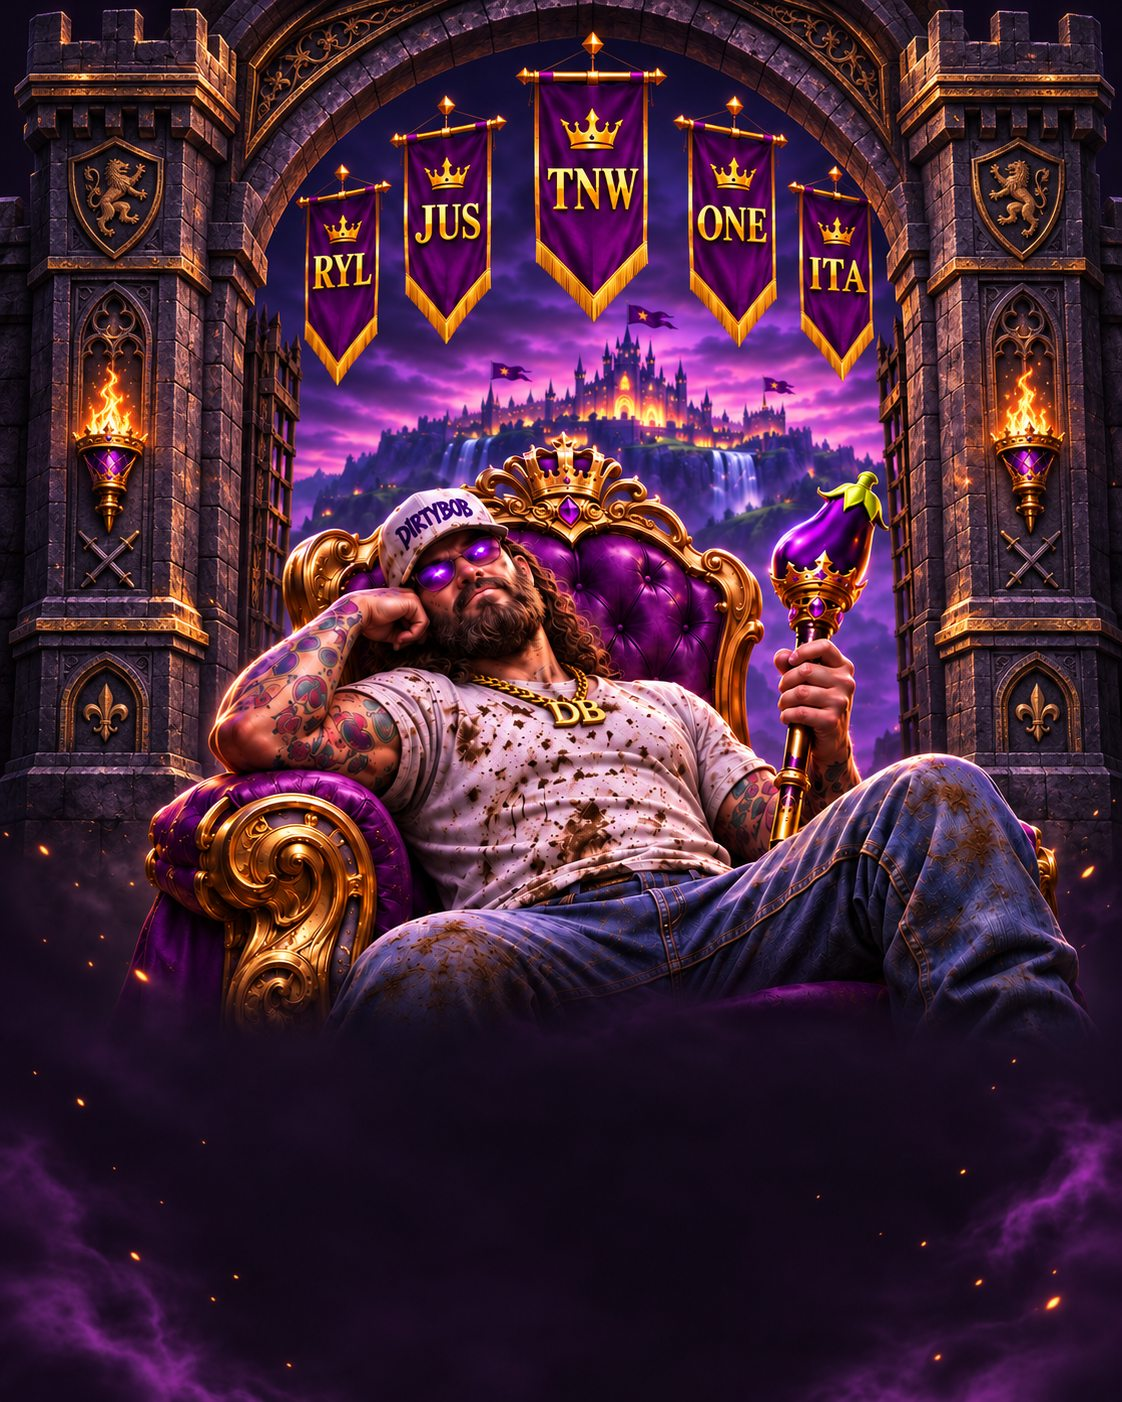
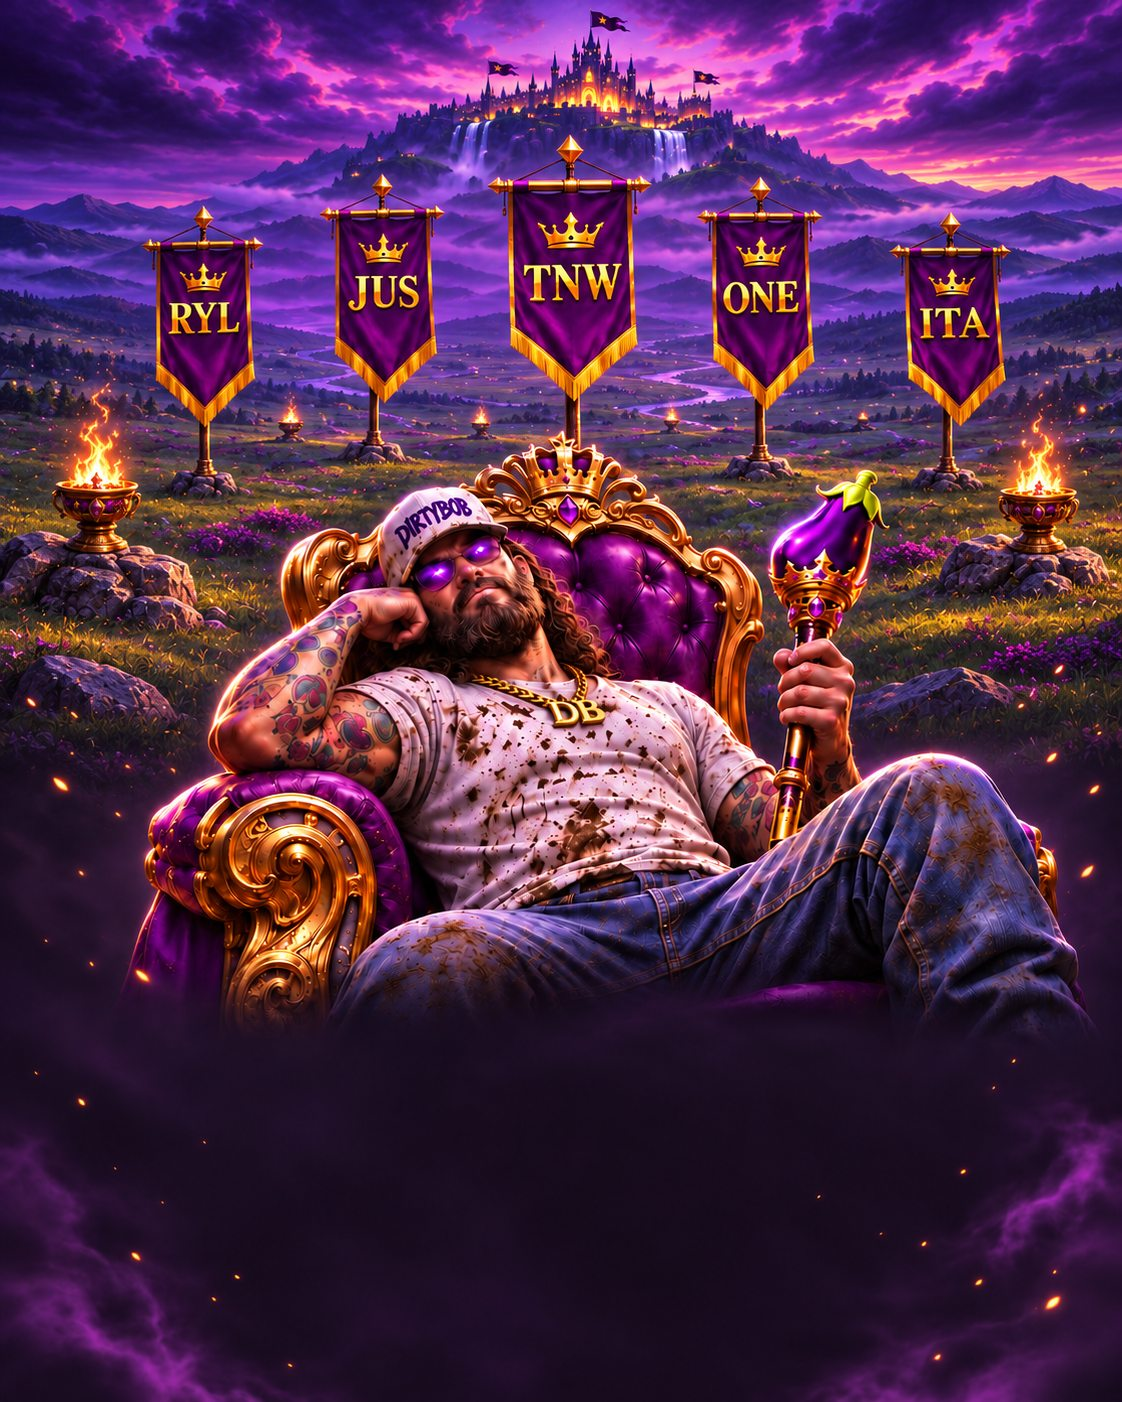
gh

diff --git a/assets/css/intro.css b/assets/css/intro.css
@@ -66,53 +66,31 @@ body.kingdom-intro { color: #fff; }
 /* The cinematic scene */
 .intro-stage { position: relative; min-width: 0; height: 100%; overflow: hidden; isolation: isolate; background: #110a18; }
 .intro-scene, .intro-scene img { position: absolute; inset: 0; display: block; width: 100%; height: 100%; }
+.intro-scene { z-index: 0; clip-path: inset(0); }
 .intro-scene img { object-fit: cover; object-position: center center; animation: scene-arrive 6s ease-out both; }
 .intro-shade { position: absolute; z-index: 1; inset: 0; pointer-events: none; background: linear-gradient(90deg, rgba(10, 6, 15, .45), transparent 55%), linear-gradient(0deg, rgba(8, 4, 12, .84), transparent 34%); }
 .intro-stage::after { position: absolute; z-index: 2; inset: auto 0 0; height: 1px; content: ""; background: linear-gradient(90deg, transparent, rgba(232, 193, 110, .7), transparent); }
 
-/* Carved stone gate leaves begin closed, then slide away from the crest. */
-.intro-gate-door {
+/* A violet-gold flame travels across the landscape and reveals the scene. */
+.intro-playing .intro-scene { clip-path: inset(0 100% 0 0); animation: scene-unveil 2.35s cubic-bezier(.66, 0, .24, 1) .55s forwards; }
+.intro-revealed .intro-scene { clip-path: inset(0); }
+.intro-flame-sweep {
   position: absolute;
-  z-index: 15;
-  top: 0;
-  bottom: 0;
-  width: 50.5%;
-  overflow: hidden;
+  z-index: 8;
+  top: -15%;
+  bottom: -15%;
+  left: -60%;
+  width: 53%;
+  opacity: 0;
   pointer-events: none;
-  border: 7px solid #8d673f;
-  background-color: #29232e;
-  background-image:
-    linear-gradient(90deg, rgba(242, 217, 166, .24), transparent 8%, transparent 92%, rgba(0, 0, 0, .65)),
-    repeating-linear-gradient(0deg, transparent 0 76px, rgba(0, 0, 0, .58) 77px, rgba(198, 167, 130, .2) 80px, transparent 84px),
-    repeating-linear-gradient(90deg, transparent 0 132px, rgba(0, 0, 0, .55) 133px, rgba(202, 171, 134, .18) 136px, transparent 140px),
-    linear-gradient(135deg, #564a58, #2a2330 45%, #453949);
-  box-shadow: inset 0 0 0 4px rgba(18, 12, 20, .9), inset 0 0 70px rgba(0, 0, 0, .72);
+  mix-blend-mode: screen;
+  filter: blur(5px);
+  clip-path: polygon(0 0, 44% 0, 33% 8%, 75% 14%, 48% 23%, 100% 30%, 57% 39%, 90% 48%, 52% 57%, 100% 66%, 55% 75%, 81% 84%, 42% 91%, 55% 100%, 0 100%, 19% 90%, 0 80%, 27% 69%, 0 58%, 32% 47%, 0 37%, 25% 27%, 0 17%, 20% 8%);
 }
-.intro-gate-door::before {
-  position: absolute;
-  inset: 7%;
-  content: "";
-  border: 2px solid rgba(225, 190, 130, .42);
-  box-shadow: inset 0 0 0 7px rgba(14, 10, 17, .38), inset 0 0 26px rgba(0, 0, 0, .7);
-  background: linear-gradient(90deg, transparent 48%, rgba(12, 8, 14, .36) 50%, transparent 52%);
-}
-.intro-gate-door::after {
-  position: absolute;
-  top: 0;
-  bottom: 0;
-  width: 8px;
-  content: "";
-  background: linear-gradient(90deg, #5b3c24, #f0cf8e 42%, #704722 72%, #2a1e1d);
-  box-shadow: 0 0 22px rgba(232, 193, 110, .42);
-}
-.intro-gate-door-left { left: 0; border-right: 2px solid #e2bc78; }
-.intro-gate-door-left::after { right: 0; }
-.intro-gate-door-right { right: 0; border-left: 2px solid #e2bc78; }
-.intro-gate-door-right::after { left: 0; }
-.intro-playing .intro-gate-door-left { animation: gate-open-left 1.75s cubic-bezier(.72, 0, .16, 1) .5s forwards; }
-.intro-playing .intro-gate-door-right { animation: gate-open-right 1.75s cubic-bezier(.72, 0, .16, 1) .5s forwards; }
-.intro-revealed .intro-gate-door-left { transform: translateX(-103%); }
-.intro-revealed .intro-gate-door-right { transform: translateX(103%); }
+.intro-flame-sweep::before, .intro-flame-sweep::after { position: absolute; inset: 0; content: ""; }
+.intro-flame-sweep::before { background: linear-gradient(90deg, transparent 0%, rgba(103, 24, 165, .18) 17%, rgba(165, 52, 229, .85) 48%, rgba(255, 191, 97, .98) 56%, rgba(190, 60, 242, .88) 68%, rgba(87, 24, 140, .22) 88%, transparent 100%); }
+.intro-flame-sweep::after { background: radial-gradient(ellipse at 55% 50%, rgba(255, 226, 147, .88), rgba(205, 82, 255, .58) 28%, rgba(122, 39, 191, .3) 52%, transparent 74%); filter: blur(22px); }
+.intro-playing .intro-flame-sweep { animation: flame-pass 2.35s cubic-bezier(.62, 0, .3, 1) .55s forwards; }
 
 /* Firelight and small embers are CSS-only, so they stay light on mobile. */
 .intro-flame { position: absolute; z-index: 3; bottom: 7%; width: clamp(34px, 5vw, 76px); height: clamp(100px, 19vh, 230px); pointer-events: none; opacity: .56; filter: blur(7px); background: radial-gradient(ellipse at 50% 100%, rgba(255, 206, 104, .9) 0, rgba(255, 107, 35, .7) 20%, rgba(193, 35, 94, .24) 49%, transparent 74%); transform-origin: center bottom; animation: flame-dance 1.3s ease-in-out infinite alternate; }
@@ -133,7 +111,7 @@ body.kingdom-intro { color: #fff; }
 .intro-embers i:nth-child(11) { --x: 67%; --size: 3px; --duration: 7.3s; --delay: 5s; }
 .intro-embers i:nth-child(12) { --x: 46%; --size: 2px; --duration: 5.4s; --delay: 3.4s; }
 
-/* K167 seal is centered on the gate seam at the start. */
+/* K167 seal glows at the center before the flame reveals the realm. */
 .intro-seal { position: absolute; z-index: 30; top: 50%; left: 50%; display: grid; width: 112px; height: 112px; place-content: center; color: #f9d982; text-align: center; border: 2px solid #e8c16e; border-radius: 50%; background: radial-gradient(circle, #532a65 0, #21162b 61%, #0d0911 100%); box-shadow: 0 0 0 8px rgba(21, 14, 25, .58), 0 0 0 10px rgba(232, 193, 110, .58), 0 0 42px rgba(179, 75, 226, .62), inset 0 0 20px rgba(255, 214, 132, .17); opacity: 0; transform: translate(-50%, -50%) scale(.86); }
 .intro-seal span { font: 34px Georgia, serif; line-height: .9; }
 .intro-seal b { margin-top: 5px; font: 800 15px Georgia, serif; letter-spacing: .1em; }
@@ -166,10 +144,10 @@ body.kingdom-intro { color: #fff; }
 .intro-playing .intro-enter { animation: rise-in .75s cubic-bezier(.2, .8, .2, 1) 2.5s both; }
 .intro-playing .intro-footnote { animation: rise-in .65s cubic-bezier(.2, .8, .2, 1) 2.75s both; }
 
-@keyframes gate-open-left { to { transform: translateX(-103%); } }
-@keyframes gate-open-right { to { transform: translateX(103%); } }
-@keyframes gate-open-top { to { transform: translateY(-103%); } }
-@keyframes gate-open-bottom { to { transform: translateY(103%); } }
+@keyframes scene-unveil { to { clip-path: inset(0); } }
+@keyframes scene-unveil-down { to { clip-path: inset(0); } }
+@keyframes flame-pass { 0% { left: -60%; opacity: 0; transform: scaleX(.8); } 15% { opacity: 1; } 82% { opacity: .92; } 100% { left: 112%; opacity: 0; transform: scaleX(1.08); } }
+@keyframes flame-pass-down { 0% { top: -60%; opacity: 0; transform: scaleY(.8); } 15% { opacity: 1; } 82% { opacity: .92; } 100% { top: 112%; opacity: 0; transform: scaleY(1.08); } }
 @keyframes seal-flash { 0% { opacity: 0; transform: translate(-50%, -50%) scale(.86); } 28% { opacity: 1; transform: translate(-50%, -50%) scale(1); } 100% { opacity: 0; transform: translate(-50%, -50%) scale(1.12); } }
 @keyframes rise-in { from { opacity: 0; transform: translateY(19px); } to { opacity: 1; transform: translateY(0); } }
 @keyframes scene-arrive { from { transform: scale(1.045); filter: brightness(.64); } to { transform: scale(1); filter: brightness(1); } }
@@ -196,6 +174,14 @@ body.kingdom-intro { color: #fff; }
   .intro-footnote { margin-top: 12px; }
 }
 
+@media (min-width: 701px) and (max-width: 1100px) and (orientation: portrait) {
+  .intro-playing .intro-scene { clip-path: inset(0 0 100% 0); animation-name: scene-unveil-down; }
+  .intro-flame-sweep { top: -60%; right: -10%; bottom: auto; left: -10%; width: auto; height: 60%; clip-path: polygon(0 0, 100% 0, 100% 43%, 91% 32%, 82% 58%, 71% 36%, 61% 70%, 50% 39%, 38% 65%, 25% 33%, 15% 58%, 8% 38%, 0 62%); }
+  .intro-flame-sweep::before { background: linear-gradient(180deg, transparent, rgba(103, 24, 165, .22) 15%, rgba(165, 52, 229, .85) 48%, rgba(255, 191, 97, .98) 55%, rgba(190, 60, 242, .84) 67%, transparent); }
+  .intro-flame-sweep::after { background: radial-gradient(ellipse at 50% 55%, rgba(255, 226, 147, .86), rgba(205, 82, 255, .54) 30%, transparent 74%); }
+  .intro-playing .intro-flame-sweep { animation-name: flame-pass-down; }
+}
+
 /* Phone: purpose-built portrait composition and thumb-friendly control. */
 @media (max-width: 700px) {
   .intro-layout { display: block; }
@@ -203,15 +189,11 @@ body.kingdom-intro { color: #fff; }
   .intro-stage { width: 100%; height: 100%; }
   .intro-scene img { object-position: center center; }
   .intro-shade { background: linear-gradient(0deg, rgba(8, 4, 13, .68), transparent 34%); }
-  .intro-gate-door { top: auto; bottom: auto; width: 100%; height: 51%; }
-  .intro-gate-door-left { top: 0; left: 0; right: 0; border-right-width: 7px; border-bottom: 2px solid #e2bc78; }
-  .intro-gate-door-right { right: 0; bottom: 0; left: 0; border-top: 2px solid #e2bc78; border-left-width: 7px; }
-  .intro-gate-door-left::after { top: auto; right: 0; bottom: 0; left: 0; width: 100%; height: 8px; background: linear-gradient(180deg, #5b3c24, #f0cf8e 42%, #704722 72%, #2a1e1d); }
-  .intro-gate-door-right::after { top: 0; right: 0; bottom: auto; left: 0; width: 100%; height: 8px; background: linear-gradient(180deg, #5b3c24, #f0cf8e 42%, #704722 72%, #2a1e1d); }
-  .intro-playing .intro-gate-door-left { animation-name: gate-open-top; }
-  .intro-playing .intro-gate-door-right { animation-name: gate-open-bottom; }
-  .intro-revealed .intro-gate-door-left { transform: translateY(-103%); }
-  .intro-revealed .intro-gate-door-right { transform: translateY(103%); }
+  .intro-playing .intro-scene { clip-path: inset(0 0 100% 0); animation-name: scene-unveil-down; }
+  .intro-flame-sweep { top: -60%; right: -10%; bottom: auto; left: -10%; width: auto; height: 60%; clip-path: polygon(0 0, 100% 0, 100% 43%, 91% 32%, 82% 58%, 71% 36%, 61% 70%, 50% 39%, 38% 65%, 25% 33%, 15% 58%, 8% 38%, 0 62%); }
+  .intro-flame-sweep::before { background: linear-gradient(180deg, transparent, rgba(103, 24, 165, .22) 15%, rgba(165, 52, 229, .85) 48%, rgba(255, 191, 97, .98) 55%, rgba(190, 60, 242, .84) 67%, transparent); }
+  .intro-flame-sweep::after { background: radial-gradient(ellipse at 50% 55%, rgba(255, 226, 147, .86), rgba(205, 82, 255, .54) 30%, transparent 74%); }
+  .intro-playing .intro-flame-sweep { animation-name: flame-pass-down; }
   .intro-skip { top: max(16px, env(safe-area-inset-top)); right: 16px; padding: 9px 10px; font-size: 9px; }
   .intro-seal { width: 85px; height: 85px; }
   .intro-seal span { font-size: 29px; }
@@ -232,15 +214,10 @@ body.kingdom-intro { color: #fff; }
 
 @media (prefers-reduced-motion: reduce) {
   .intro-scene img, .intro-flame, .intro-embers i { animation: none !important; }
-  .intro-playing .intro-gate-door-left, .intro-revealed .intro-gate-door-left { animation: none !important; transform: translateX(-103%); }
-  .intro-playing .intro-gate-door-right, .intro-revealed .intro-gate-door-right { animation: none !important; transform: translateX(103%); }
+  .intro-playing .intro-scene { animation: none !important; clip-path: none; }
+  .intro-flame-sweep { display: none; }
   .intro-playing .intro-seal, .intro-playing .intro-kicker, .intro-playing .intro-copy h1,
   .intro-playing .intro-tagline, .intro-playing .intro-enter, .intro-playing .intro-footnote { animation: none !important; opacity: 1; transform: none; }
   .intro-seal { display: none; }
-}
-
-@media (max-width: 700px) and (prefers-reduced-motion: reduce) {
-  .intro-playing .intro-gate-door-left, .intro-revealed .intro-gate-door-left { transform: translateY(-103%); }
-  .intro-playing .intro-gate-door-right, .intro-revealed .intro-gate-door-right { transform: translateY(103%); }
 }
 

diff --git a/index.html b/index.html
@@ -56,8 +56,7 @@
         <i></i><i></i><i></i><i></i><i></i><i></i><i></i><i></i><i></i><i></i><i></i><i></i>
       </div>
 
-      <div class="intro-gate-door intro-gate-door-left" aria-hidden="true"></div>
-      <div class="intro-gate-door intro-gate-door-right" aria-hidden="true"></div>
+      <div class="intro-flame-sweep" aria-hidden="true"></div>
 
       <div class="intro-seal" aria-hidden="true"><span>♛</span><b>K167</b></div>
       <button class="intro-skip" type="button" id="skip-intro">Skip intro <span aria-hidden="true">×</span></button>

diff --git a/assets/js/intro.js b/assets/js/intro.js
@@ -1,4 +1,4 @@
-// Controls the one-time curtain reveal on the Kingdom 167 entry page.
+// Controls the one-time landscape reveal on the Kingdom 167 entry page.
 (function () {
   const page = document.documentElement;
   const skipButton = document.getElementById("skip-intro");

diff --git a/README.md b/README.md
@@ -15,7 +15,7 @@ A static Kingshot community site designed for GitHub Pages. It uses plain HTML, 
 - `assets/css/style.css` — existing site styles plus the shared Dirtybob theme and responsive components
 - `assets/js/main.js` — existing shared kingdom behaviour
 - `assets/dirtybob-kingdom.jpg` — wide entry and dashboard key art
-- `assets/css/intro.css` and `assets/js/intro.js` — responsive cinematic entry screen and stone-gate reveal
+- `assets/css/intro.css` and `assets/js/intro.js` — responsive cinematic entry screen and violet flame reveal
 - `assets/intro-desktop.jpg`, `assets/intro-ipad.jpg`, `assets/intro-phone.jpg` — art plates composed for each screen size
 - `assets/swordland-summit.jpg`, `assets/alliance-brawl.jpg`, `assets/prep-week.jpg` — event banner artwork
 
@@ -25,7 +25,7 @@ The new pages link to the existing GitHub Pages base path, `/Kingdom167/`. Keep 
 
 The shared theme uses near-black plum backgrounds, violet panels and interactive accents, and metallic gold for kingdom highlights. Reusable layout classes include `.cc-panel`, `.cc-wrap`, `.cc-btn`, `.event-hero` and `.event-card`. Mobile layouts stack event information and use the compact bottom navigation; desktop layouts prioritize the command dashboard and multi-column event summaries.
 
-The entry page uses a separate stylesheet so its fixed navigation rail, curtains and screen-specific artwork stay independent from the other pages. The reveal can be skipped, plays once per browser session, and is skipped automatically when reduced motion is requested.
+The entry page uses a separate stylesheet so its fixed navigation rail, reveal effect and screen-specific artwork stay independent from the other pages. The reveal can be skipped, plays once per browser session, and is skipped automatically when reduced motion is requested.
 
 ## Future sign-ups
 
